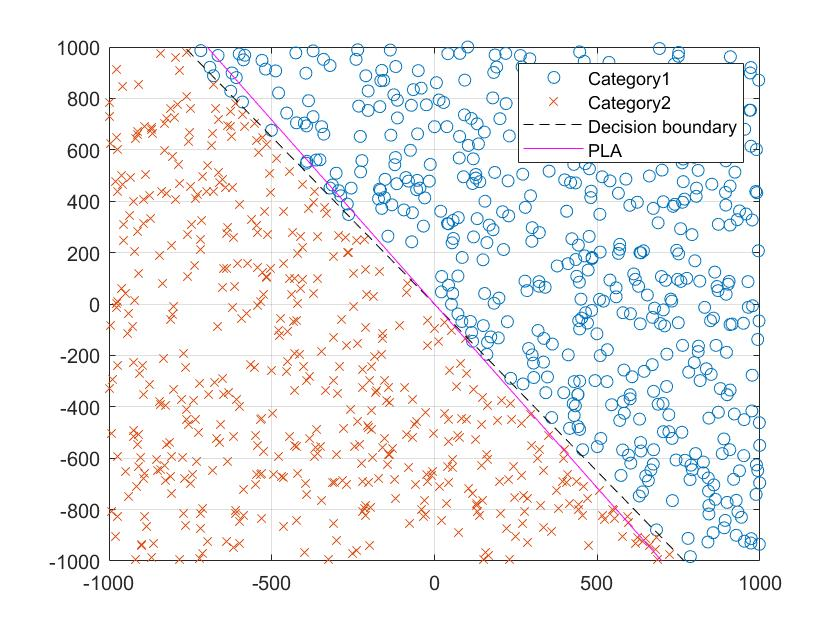
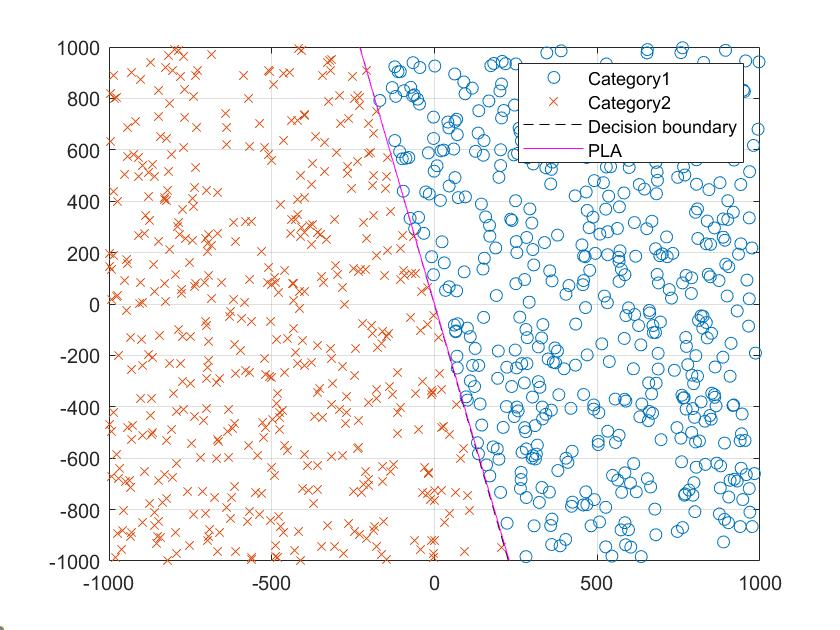
plot figure

Changed region(s): [[0.1238, 0.0603, 0.9286, 0.9048], [0.0, 0.9952, 0.031, 1.0]]

diff --git a/PLA/main_PLA.m b/PLA/main_PLA.m
@@ -3,7 +3,7 @@ format short g
 
 %% Prepare the data
 N = 1000;
-splitRatio = 0.1;
+splitRatio = 0.8;
 
 w_ = rand(3, 1);
 X = randi([-N N], N, 2);
